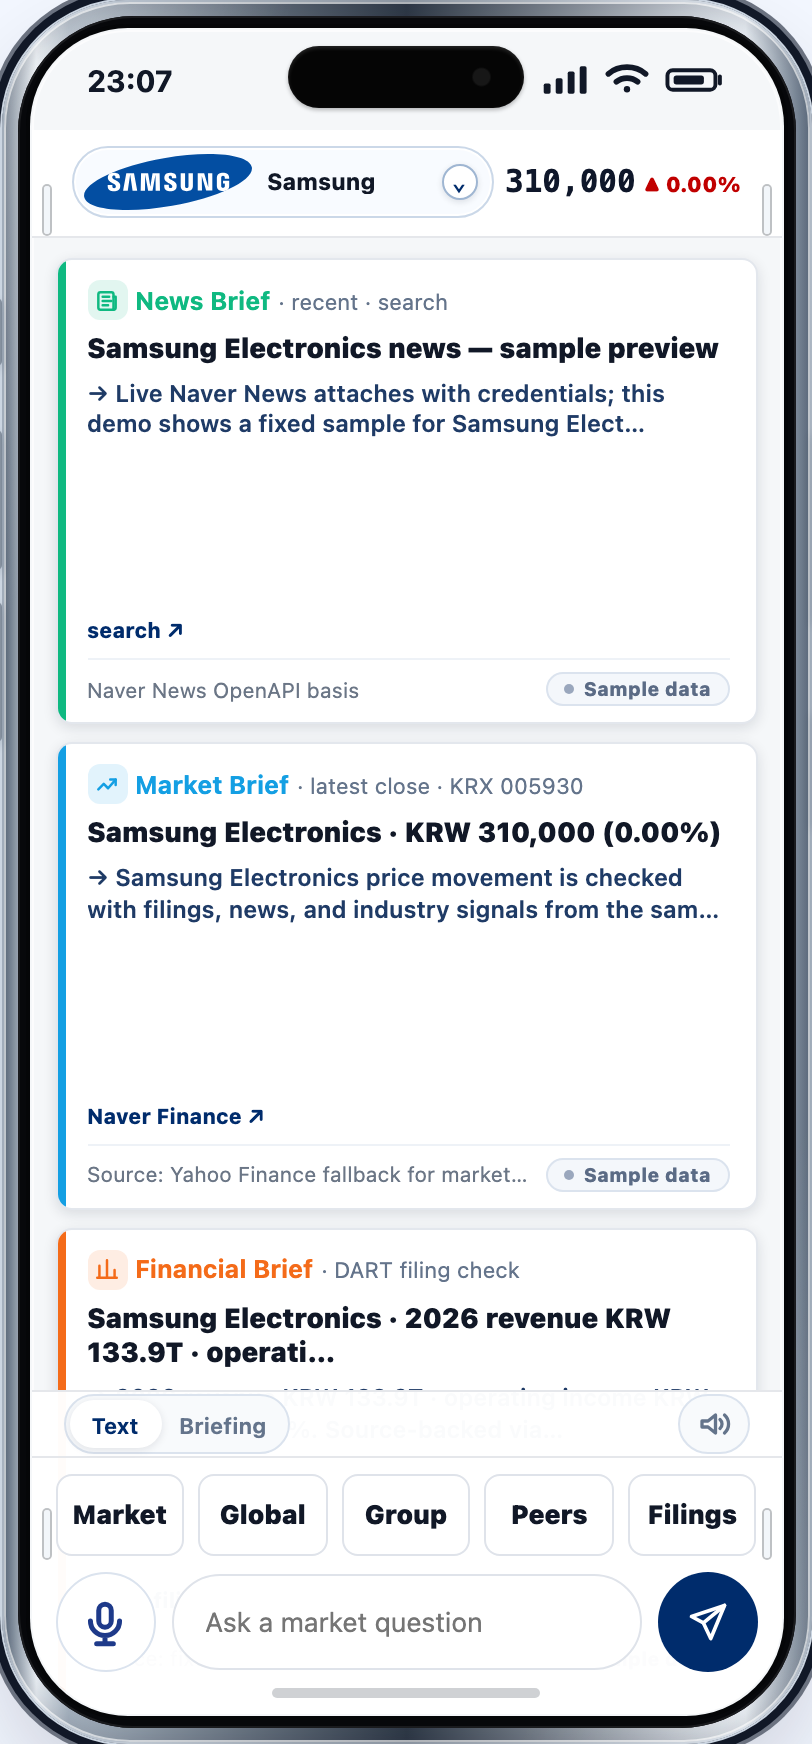
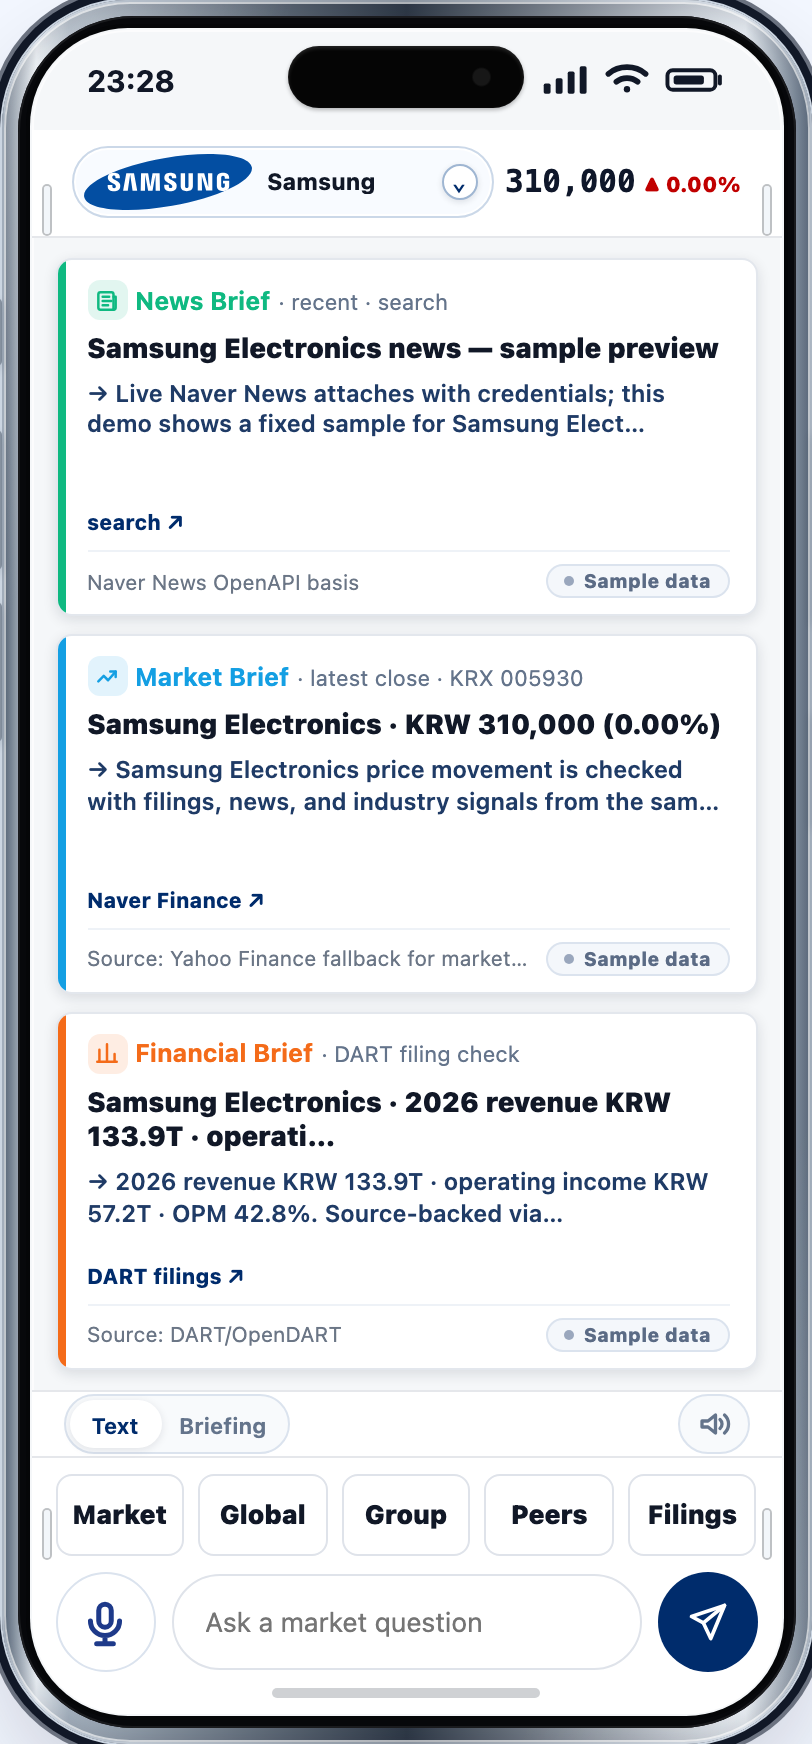
Release public-baseline-v0.5.1: UI/figure polish round 2
Post-v0.5 review. No evaluation numbers changed.

- Bottom dock moved into normal flex flow (was an absolute overlay), so briefing
  cards and answer content no longer hide behind it; dropped the large
  conversation bottom padding.
- Figure 2 (answer) is deterministic and readable: capture pins the conversation
  to the top so the figure starts at "핵심 인사이트" and shows insight / evidence /
  counter-risk in one frame; answer density tightened (gaps, line-height).
- Regenerated docs/ui_mobile_main_ko_callout.png to the current UI (was stale);
  capture script now produces it too. Manual callouts re-added by hand if needed.
- capture-figures.mjs: scrollTopSelector option for a reproducible answer scroll.
- Financial card footer shows "Source: DART/OpenDART" instead of the internal
  fixture:dart id; mode conveyed by the "Sample data" pill.
- Version consistency: README BibTeX note and roadmap manuscript-pin -> v0.5.1.

Changed region(s): [[0.0616, 0.2787, 0.9236, 0.805], [0.1539, 0.031, 0.2155, 0.0619]]

diff --git a/src/styles.css b/src/styles.css
@@ -913,7 +913,7 @@ button {
   flex-direction: column;
   gap: 10px;
   overflow-y: auto;
-  padding: 12px 22px 142px;
+  padding: 12px 22px 16px;
 }
 
 .empty-space {
@@ -1022,11 +1022,11 @@ button {
 }
 
 .message {
-  max-width: 86%;
+  max-width: 88%;
   border-radius: 12px;
-  padding: 12px 13px;
-  font-size: 13px;
-  line-height: 1.52;
+  padding: 11px 13px;
+  font-size: 12.8px;
+  line-height: 1.46;
   box-shadow: 0 1px 4px rgba(15, 23, 42, 0.08);
 }
 
@@ -1039,12 +1039,12 @@ button {
 
 .rich-message {
   display: grid;
-  gap: 10px;
+  gap: 8px;
 }
 
 .message-section {
   display: grid;
-  gap: 5px;
+  gap: 4px;
 }
 
 .message-heading {
@@ -1718,11 +1718,9 @@ button {
 }
 
 .bottom-dock {
-  position: absolute;
-  right: 0;
-  bottom: 0;
-  left: 0;
+  position: relative;
   z-index: 25;
+  flex: 0 0 auto;
   border-top: 1px solid #e5e7eb;
   background: rgba(255, 255, 255, 0.98);
   padding-bottom: 21px;

diff --git a/CHANGELOG.md b/CHANGELOG.md
@@ -1,5 +1,28 @@
 # Changelog
 
+## public-baseline-v0.5.1 - 2026-06-23
+
+Second UI/figure polish round (post-v0.5 review). No evaluation numbers changed.
+
+- Bottom dock is now part of the normal flex flow (`position: relative`,
+  `flex: 0 0 auto`) instead of an absolute overlay, so briefing cards and answer
+  content no longer hide behind it; removed the large `.conversation`
+  bottom padding compensation.
+- Figure 2 (answer) is deterministic and readable: the capture pins the
+  conversation to the top so the figure starts at "핵심 인사이트" and shows the
+  insight / evidence / counter-risk sections in one frame; answer density
+  tightened slightly (gaps, line-height).
+- Regenerated `docs/ui_mobile_main_ko_callout.png` to the current UI (the legacy
+  asset was stale); the capture script now also produces it. Manual annotation
+  callouts, if needed for the paper, are re-added by hand.
+- `scripts/capture-figures.mjs`: added a `scrollTopSelector` option for a fixed,
+  reproducible answer-figure scroll position.
+- Financial brief card footer shows a clean "Source: DART/OpenDART" basis instead
+  of the internal `fixture:dart` source id; mode is conveyed by the "Sample data"
+  pill.
+- Version consistency: README BibTeX note and the roadmap manuscript-pin updated
+  to the current tag.
+
 ## public-baseline-v0.5 - 2026-06-23
 
 Mobile demo visual quality pass. The realistic device frame is preserved; only

diff --git a/README.md b/README.md
@@ -111,7 +111,7 @@ If you cite this repository:
   year   = {2026},
   url    = {https://github.com/hammerbaki/enterprise-llm-agent-harness},
   doi    = {10.5281/zenodo.20685423},
-  note   = {Version public-baseline-v0.4}
+  note   = {Version public-baseline-v0.5.1}
 }
 ```
 
@@ -128,7 +128,7 @@ endorsement; the earlier *Applied Sciences* track is no longer being prepared.
 - [ ] Finalize the arXiv preprint and submit (cs.AI); add the arXiv ID and link
       here and in `CITATION.cff` once assigned.
 - [ ] Pin the manuscript repo (`harness-paper`, `artifacts/dev-pin.txt`) to the
-      `public-baseline-v0.4` tag and regenerate its tables from this repo.
+      `public-baseline-v0.5.1` tag and regenerate its tables from this repo.
 
 **Strengthen the evaluation (RQ defense)**
 - [ ] Add an external guardrail baseline (e.g. NeMo Guardrails / Guardrails AI)